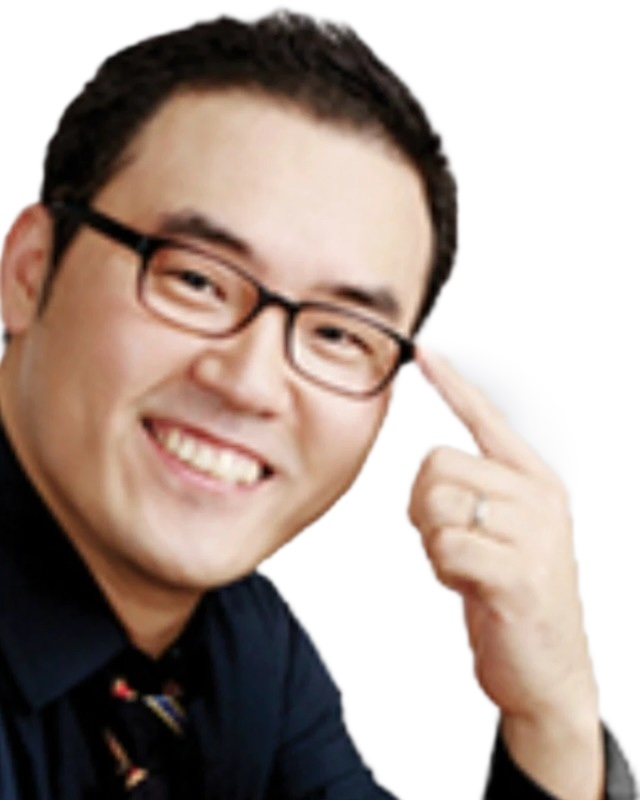
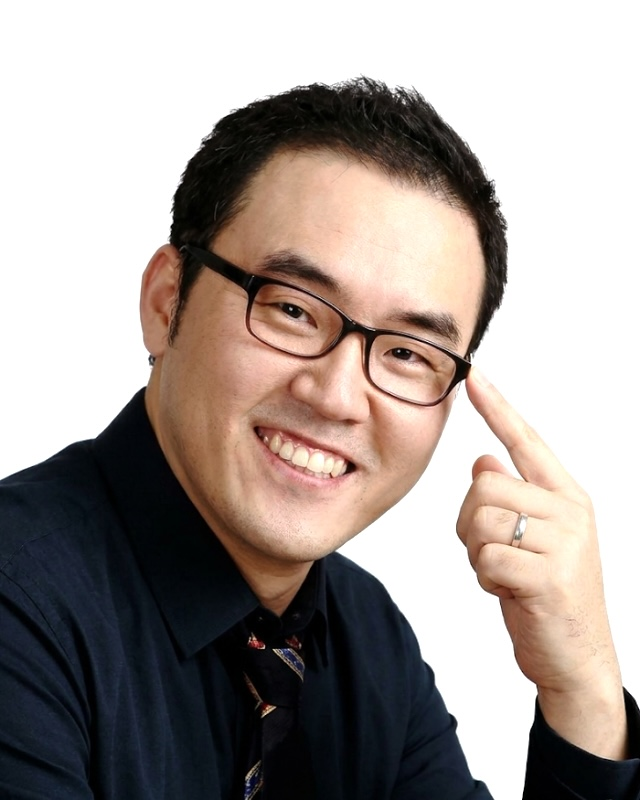
김호랑(머리 위 여백·옆 흐림 제거)·김현중(선명) 사진 AI 보정

diff --git a/index.html b/index.html
@@ -610,7 +610,7 @@ const T=[
 ];
 const list=document.getElementById('tlist');
 /* 사진: img/teachers/이름.jpg 를 PHOTO 에 적으면 사진, 없으면 성 한 글자 */
-const PHOTO={};['류성훈','이태형','장의순','김호랑','고연승','권현석','정민','홍진수','최정윤','이예섭','정지만','김현중','이창환','최현재','김경한','문지현','박정은'].forEach(n=>PHOTO[n]='img/teachers/'+n+'.jpg?v=1123h');
+const PHOTO={};['류성훈','이태형','장의순','김호랑','고연승','권현석','정민','홍진수','최정윤','이예섭','정지만','김현중','이창환','최현재','김경한','문지현','박정은'].forEach(n=>PHOTO[n]='img/teachers/'+n+'.jpg?v=1123i');
 /* 줄 순서: 1줄 국어 · 2줄 수학 · 3줄 영어 · 4줄 탐구 · 논술 (11/19 사장님 요청)
    같은 과목 안에서는 (탐구는 통합과학·통합사회·사탐 순으로 묶고) 사진 있는 강사 먼저, 나머지는 배열 순서 그대로 */
 const SUBJ=['국어','수학','영어','탐구','논술'];
